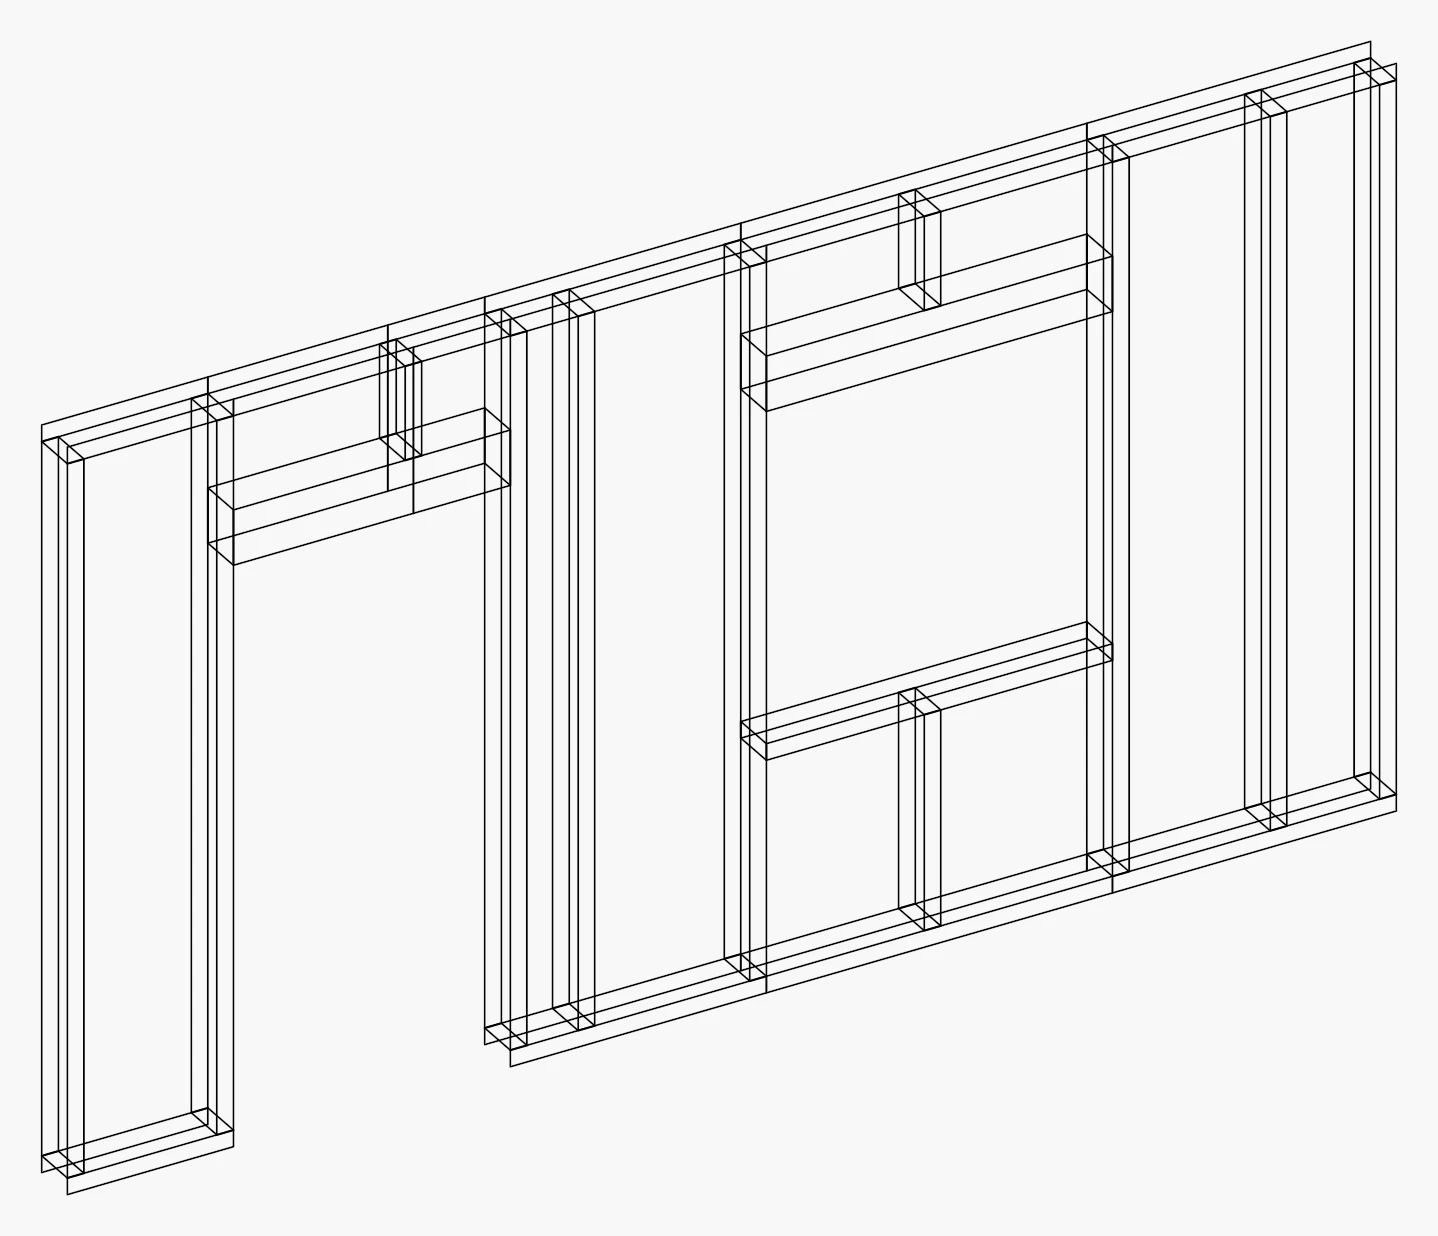
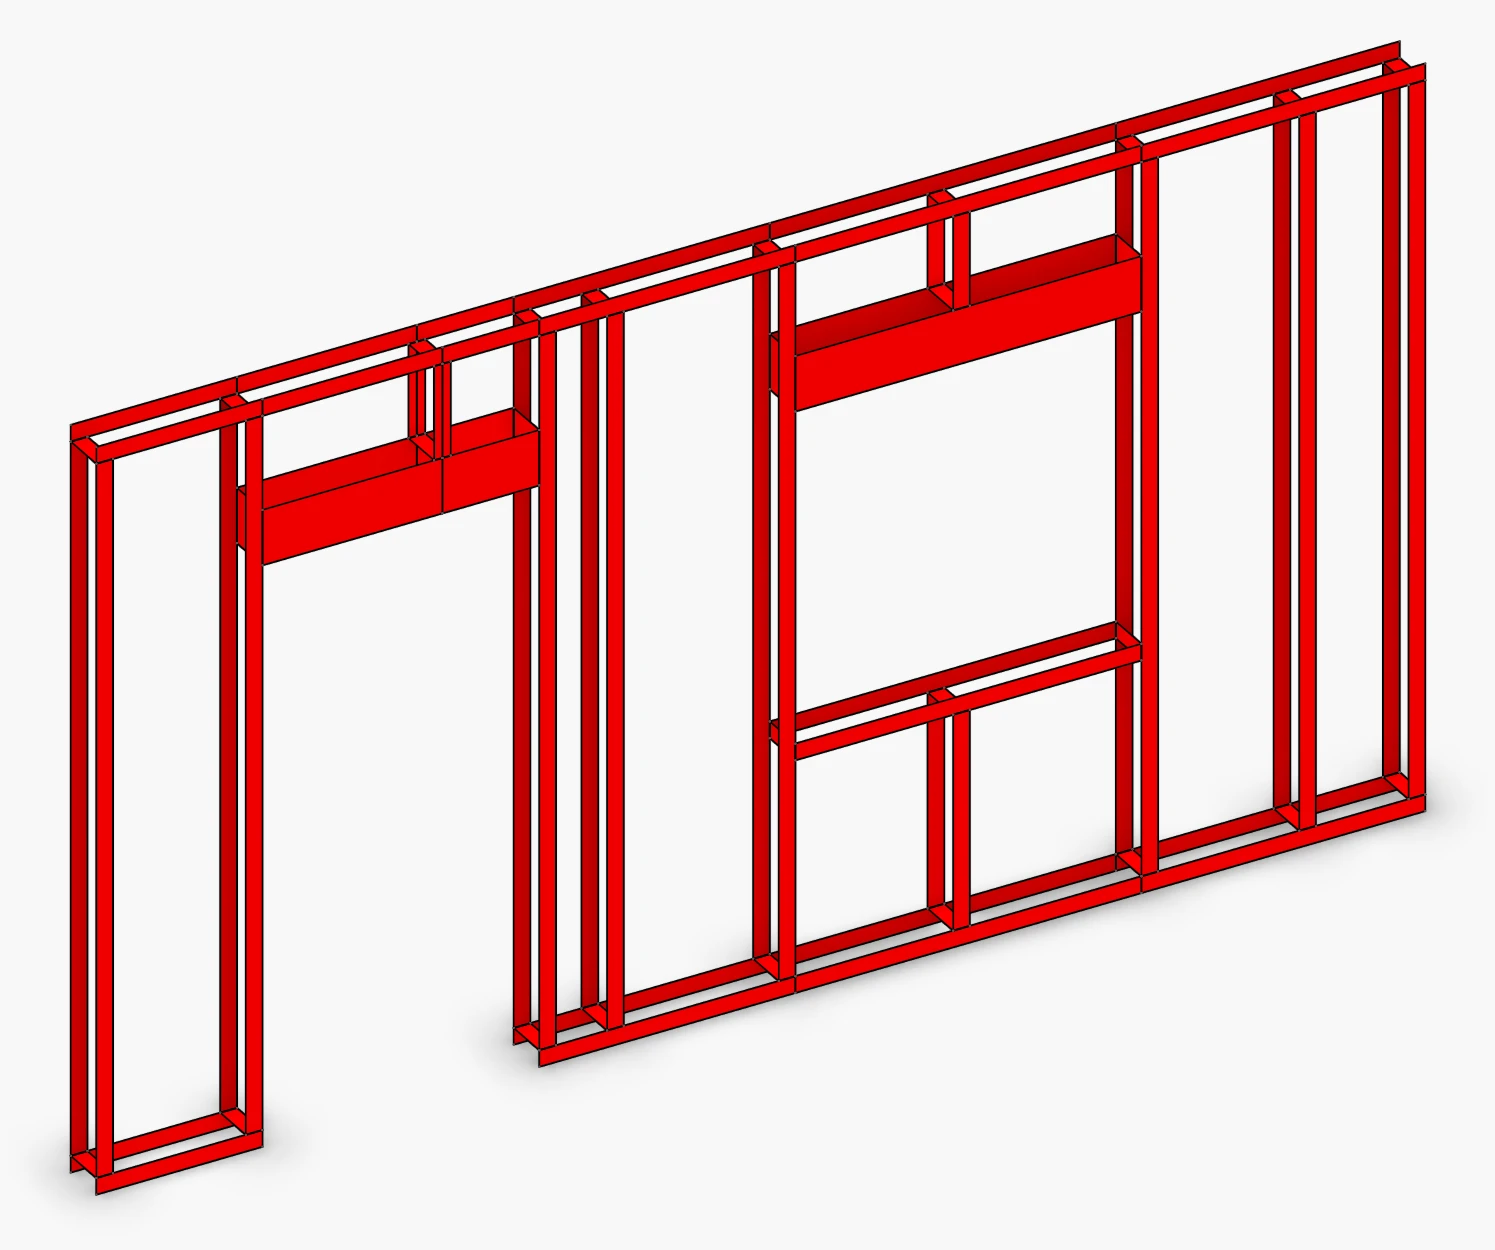
wood: modules - contacts drawn as red meshes instead of polylines

Changed region(s): [[0.0306, 0.0307, 0.9791, 0.9838]]

diff --git a/src/templates/module/wall.cpp b/src/templates/module/wall.cpp
@@ -279,7 +279,9 @@ void Wall::add_contacts() {
             const std::shared_ptr<InteractionContactFace> face = compute_face_contact(source, target);
             face->name = fmt::format("{}_on_{}", target->name, source->name);
             add_interaction(source, target, face);
-            add_polyline(face->polygon, frame_group);
+            Mesh patch = Mesh::from_polylines(std::vector<Polyline>{face->polygon});
+            patch.set_objectcolor(Color::red());
+            add_mesh(patch, frame_group);
         }
 
     // sheathing: every panel on every member it covers
@@ -292,7 +294,9 @@ void Wall::add_contacts() {
 
             face->name = fmt::format("{}_on_{}", panel->name, frame->name);
             add_interaction(panel, frame, face);
-            add_polyline(face->polygon, sheathing_group);
+            Mesh patch = Mesh::from_polylines(std::vector<Polyline>{face->polygon});
+            patch.set_objectcolor(Color::red());
+            add_mesh(patch, sheathing_group);
         }
 }
 

diff --git a/examples/templates_module_1_wall.cpp b/examples/templates_module_1_wall.cpp
@@ -10,8 +10,8 @@ int main() {
     wood_module::Wall wall;
     std::cout << wall << std::endl;
 
-    const size_t frame = wall.get_branch("contacts_frame").objects.polylines->size();
-    const size_t sheathing = wall.get_branch("contacts_sheathing").objects.polylines->size();
+    const size_t frame = wall.get_branch("contacts_frame").objects.meshes->size();
+    const size_t sheathing = wall.get_branch("contacts_sheathing").objects.meshes->size();
     std::cout << fmt::format("wall: {} frame contacts, {} sheathing contacts", frame, sheathing) << std::endl;
     wall.pb_dump(pb_path("live"));
     return 0;

diff --git a/examples/templates_module_3_cassette_house.cpp b/examples/templates_module_3_cassette_house.cpp
@@ -10,7 +10,7 @@ int main() {
     wood_module::CassetteShell house(wood_module::CassetteShell::house_mesh(), 160.0, 20.0, 60.0, "cassette_house");
     std::cout << house << std::endl;
 
-    const size_t contacts = house.get_branch("contacts").objects.polylines->size();
+    const size_t contacts = house.get_branch("contacts").objects.meshes->size();
     std::cout << fmt::format("cassette house: {} cassettes, {} contacts between them", house.mesh.number_of_faces(), contacts) << std::endl;
     house.pb_dump(pb_path("live"));
     return 0;

diff --git a/src/templates/module/cassette_shell.cpp b/src/templates/module/cassette_shell.cpp
@@ -45,8 +45,11 @@ CassetteShell::CassetteShell(
     const CassetteContacts contacts = add_contacts();
     const std::shared_ptr<TreeNode> contact_group = group_named("contacts");
 
-    for (const Contact& contact : contacts.between)
-        add_polyline(contact.face->polygon, contact_group);
+    for (const Contact& contact : contacts.between) {
+        Mesh patch = Mesh::from_polylines(std::vector<Polyline>{contact.face->polygon});
+        patch.set_objectcolor(Color::red());
+        add_mesh(patch, contact_group);
+    }
 
 }
 

diff --git a/src/templates/module/cassette_shell.h b/src/templates/module/cassette_shell.h
@@ -30,7 +30,7 @@ struct CassetteContacts {
 ///
 /// Fields: the welded mesh and the cassette sizes.
 /// Every cassette is a group `cassette_<f>` of `top_plate_<f>`, `bottom_plate_<f>` and `edge_beam_<f>_<j>`, read back by name; the
-/// polygon of every contact between cassettes is drawn in `contacts`.
+/// polygon of every contact between cassettes is drawn in `contacts` as a red mesh.
 class CassetteShell : public WoodSession {
 public:
     const Mesh mesh; // The input mesh of planar faces, welded at 0.01.

diff --git a/examples/templates_module_2_cassette_shell.cpp b/examples/templates_module_2_cassette_shell.cpp
@@ -10,7 +10,7 @@ int main() {
     wood_module::CassetteShell shell;
     std::cout << shell << std::endl;
 
-    const size_t contacts = shell.get_branch("contacts").objects.polylines->size();
+    const size_t contacts = shell.get_branch("contacts").objects.meshes->size();
     std::cout << fmt::format("cassette shell: {} cassettes, {} contacts between them", shell.mesh.number_of_faces(), contacts) << std::endl;
     shell.pb_dump(pb_path("live"));
     return 0;

diff --git a/src/templates/module/wall.h b/src/templates/module/wall.h
@@ -43,7 +43,7 @@ private:
     void add_sheathing();
 
     /// Searches the contact between every two frame members and every panel and frame member, stores it as their interaction and
-    /// draws its polygon in contacts_frame or contacts_sheathing.
+    /// draws its polygon as a red mesh in contacts_frame or contacts_sheathing.
     void add_contacts();
 
     /// A frame member from start to end, stud_depth across the wall and size along up.

diff --git a/docs/templates/module.md b/docs/templates/module.md
@@ -57,7 +57,7 @@ for (const std::array<double, 2>& span : spans) {
 
 ### Contacts
 
-`compute_face_contact` between every two frame members and between every panel and frame member. The member whose axis runs square to the contact ends on it and is the target, the one it stands on the source. Each contact is named `<target>_on_<source>`, stored with `add_interaction` and its polygon drawn in `contacts_frame` or `contacts_sheathing`: 28 in the frame, 52 between the panels and the frame. No connector is made.
+`compute_face_contact` between every two frame members and between every panel and frame member. The member whose axis runs square to the contact ends on it and is the target, the one it stands on the source. Each contact is named `<target>_on_<source>`, stored with `add_interaction` and its polygon drawn as a red mesh in `contacts_frame` or `contacts_sheathing`: 28 in the frame, 52 between the panels and the frame. No connector is made.
 
 ![contacts](templates/templates_module_1_wall_contacts.webp)
 
@@ -127,7 +127,7 @@ add(std::make_shared<Plate>(bottom_loop, top_loop, fmt::format("edge_beam_{}_{}"
 
 ![two cassettes](templates/templates_module_2_cassette_shell_cassette_8.webp)
 
-Every contact between cassettes drawn in `contacts`, one per interior edge of the mesh:
+Every contact between cassettes drawn in `contacts` as a red mesh, one per interior edge of the mesh:
 
 ![contacts](templates/templates_module_2_cassette_shell_contacts.webp)
 
@@ -158,7 +158,7 @@ Many cassettes joined in space: a 6000 x 4000 gable house, walls 2700 high and t
 wood_module::CassetteShell house(wood_module::CassetteShell::house_mesh(), 160.0, 20.0, 60.0, "cassette_house");
 ```
 
-Every cassette is cut on the plane it shares with each neighbour: square where two panels of one wall meet in a plane, beveled at the wall corners, the eaves and the ridge. A gable triangle runs along the panels under it in a straight line; its plates skip those straight corners and its beams meet there square to the edge. Every contact between cassettes, one per shared mesh edge:
+Every cassette is cut on the plane it shares with each neighbour: square where two panels of one wall meet in a plane, beveled at the wall corners, the eaves and the ridge. A gable triangle runs along the panels under it in a straight line; its plates skip those straight corners and its beams meet there square to the edge. Every contact between cassettes as a red mesh, one per shared mesh edge:
 
 ![contacts](templates/templates_module_3_cassette_house_contacts.webp)
 
